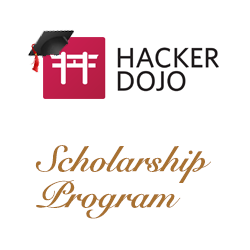
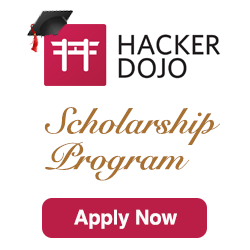
changed button image

Changed region(s): [[0.112, 0.028, 0.896, 0.952], [0.168, 0.476, 0.196, 0.532], [0.196, 0.532, 0.224, 0.56]]

diff --git a/templates/index.html b/templates/index.html
@@ -74,7 +74,7 @@
 <div align="center">
 	<iframe width="560" height="315" src="//www.youtube.com/embed/mcg2By317ZI" frameborder="2" allowfullscreen></iframe>
 	<section class="hero-image2">
-    <a href="http://www.hackerdojo.com/Scholarship" style="position:absolute; right:10px; top:240px; z-index:200"><img width="250" height="250" alt="Hacker Dojo Scholarship" src="{{cdn}}/static/images/scholarship-200x200.png"; border="2"></a>
+    <a href="http://www.hackerdojo.com/Scholarship" style="position:absolute; right:10px; top:240px; z-index:200"><img width="250" height="250" alt="Hacker Dojo Scholarship" src="{{cdn}}/static/images/scholarship-200x200.png"; border="2", color="Crimson"></a>
 </div>
 
   <div style="clear:both">&nbsp;</div>
